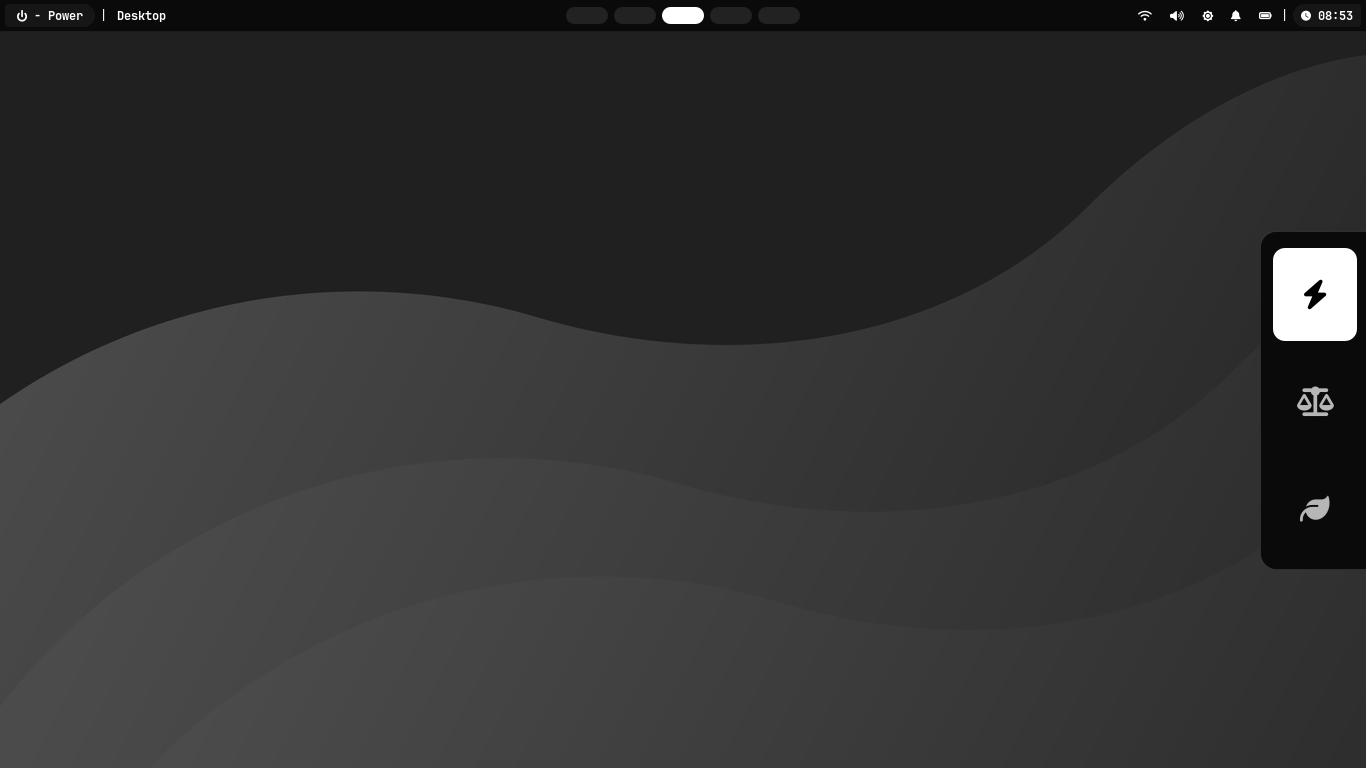
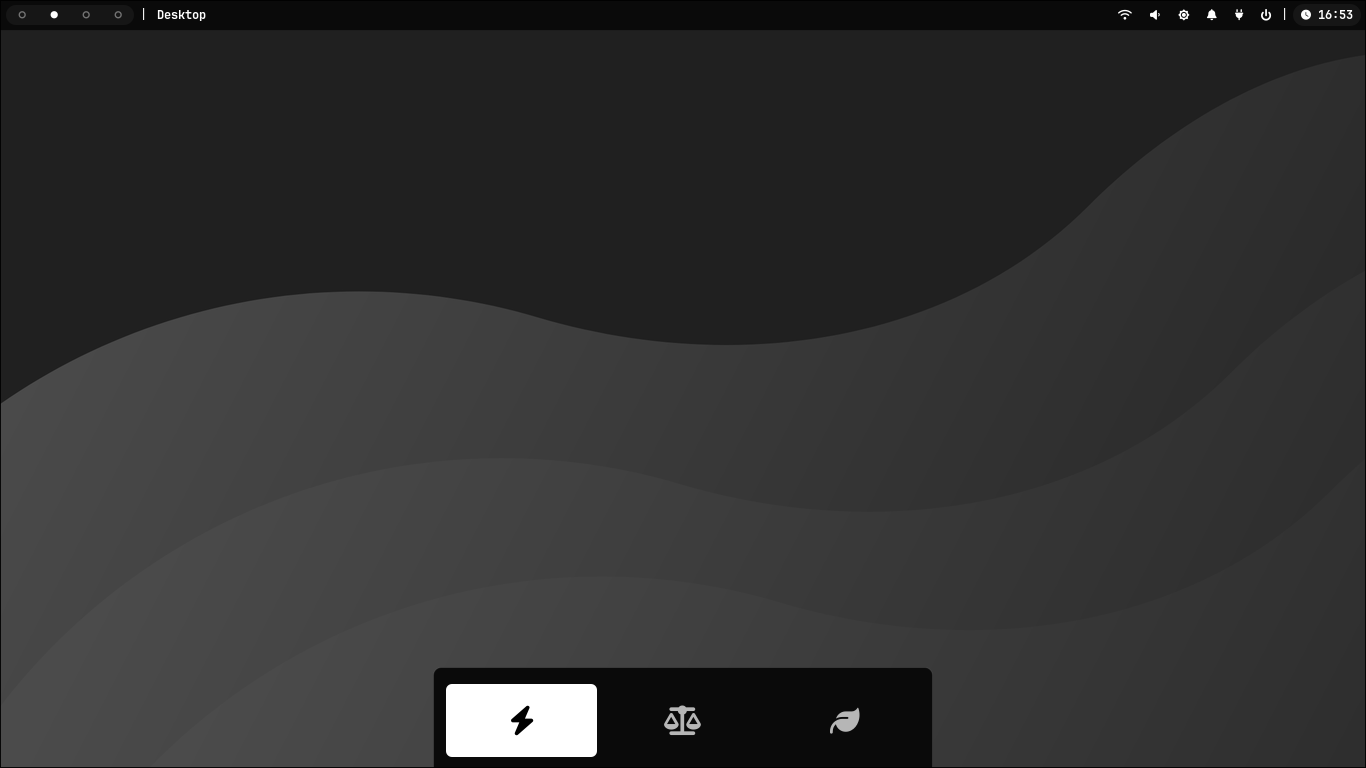
postando detalhes que estavam faltando

diff --git a/config/waybar/style.css b/config/waybar/style.css
@@ -47,9 +47,9 @@ window#waybar > box {
 }
 
 #workspaces button {
-    padding: 0 4px;
-    margin: 0 4px;
-    border-radius: 0;
+    padding: 0px 4px;
+    margin: 0 2px;
+    border-radius: 100px;
     background: transparent;
     color: rgba(255, 255, 255, 0.4);
     border-bottom: none;
@@ -83,7 +83,7 @@ window#waybar > box {
 #clock {
     background: rgba(255, 255, 255, 0.05);
     color: #ffffff;
-    border-radius: 12px 2px 2px 12px;
+    border-radius: 100px;
     padding: 0 8px;
     margin: 2px 3px;
     font-weight: bolder;

diff --git a/README.md b/README.md
@@ -1,12 +1,12 @@
 # Monodots
 
 ![Desktop](/previews/desktop.png)
+![GTK/Terminal](/previews/gtkandterminal.png)
 ![Rofi](/previews/rofi.png)
 ![Wallpicker](/previews/wallpicker.png)
 ![Powermenu](/previews/powermenu.png)
 ![Profileselector](/previews/profileselector.png)
 ![Swaync](/previews/swaync.png)
-![GTK/Terminal](/previews/gtkandterminal.png)
 
 ## Instalação
 > ⚠ Essa configuração foi feita **apenas para distribuições baseadas no Arch Linux.**
